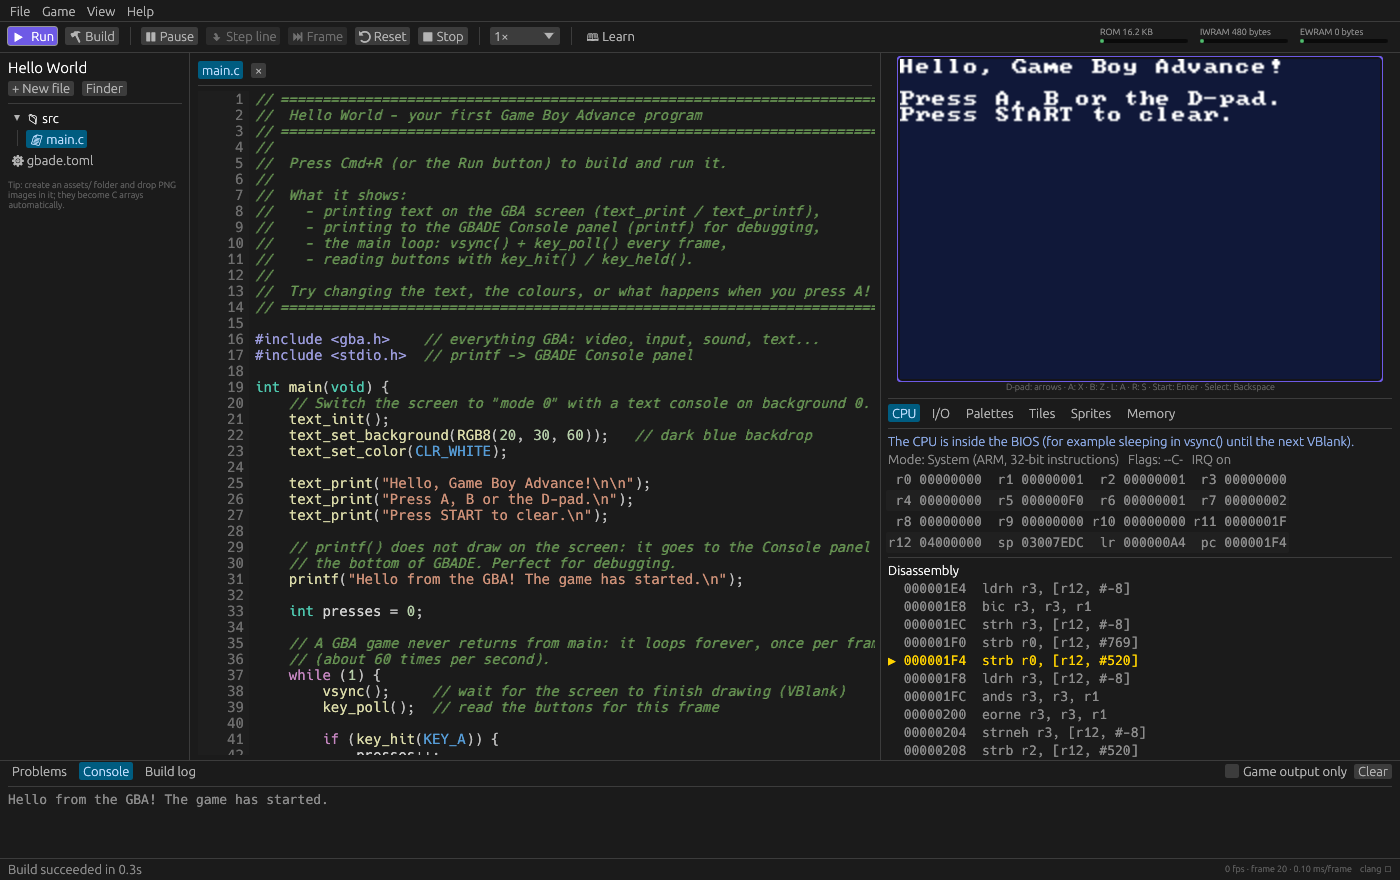
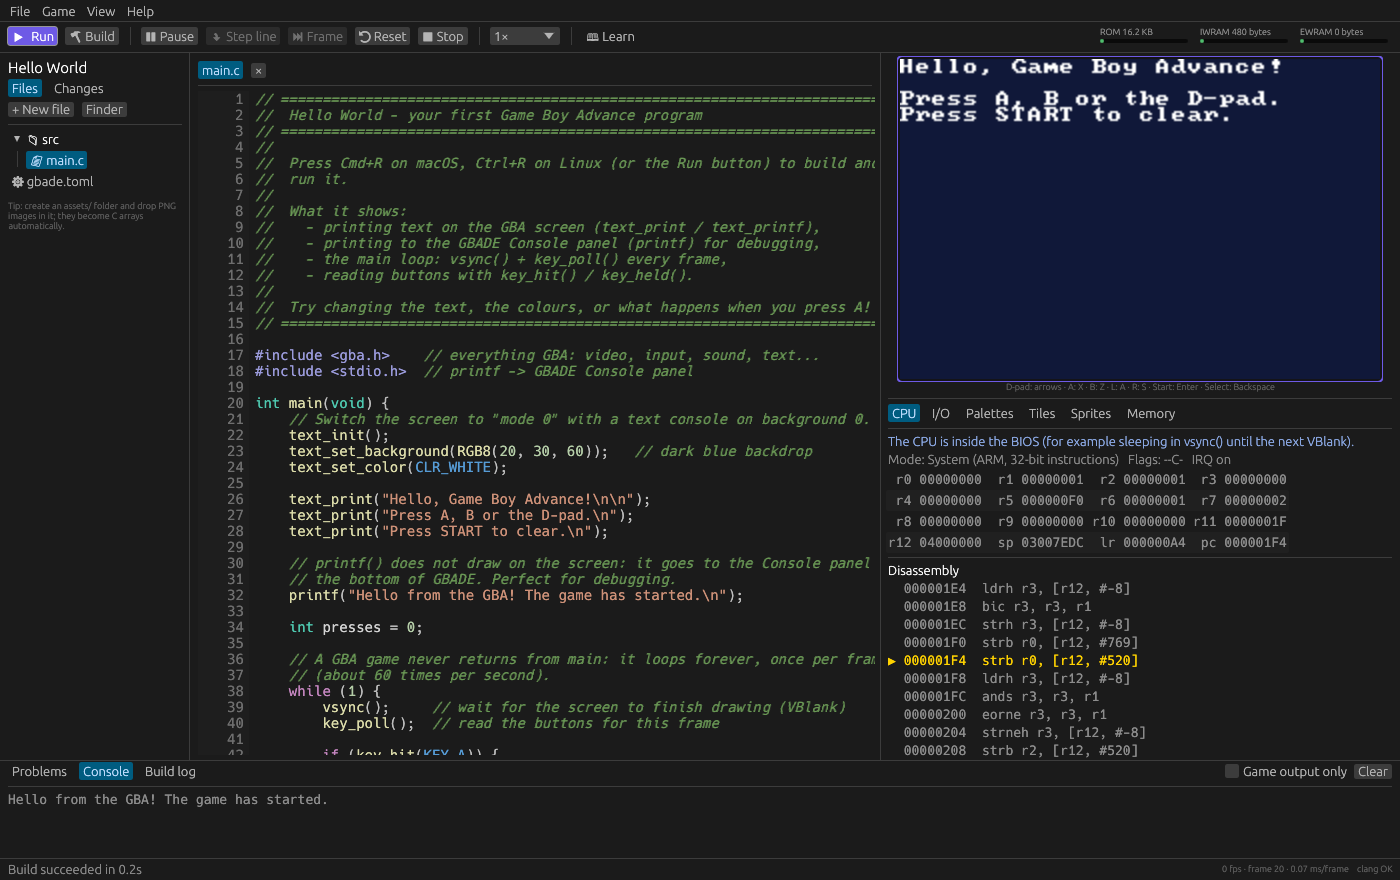
README: bring up to date with 0.2.0
- clangd in the bundled toolchain, gbade check, the two new guides
- install from the releases page first
- repository layout lists gbade-lsp and gbade-git
- tests: real count (106), clangd and libgit2 tests, what the UI and
  smoke tests cover now
- CI example tag v0.2.0; credits for clangd, libgit2 and Zstandard
- fresh screenshot (Files/Changes tabs) and a completion screenshot

Changed region(s): [[0.1843, 0.1841, 0.6143, 0.8591], [0.0, 0.092, 0.1229, 0.2761], [0.86, 0.9818, 1.0, 1.0]]

diff --git a/README.md b/README.md
@@ -3,8 +3,9 @@
 **Make your own Game Boy Advance games, with no setup.** GBADE is a
 development environment where the code editor, the C compiler and a GBA
 emulator live in one app, for macOS and Linux. Write C, press **⌘R**
-(**Ctrl+R** on Linux), and your game runs next to your code, with breakpoints, a hardware inspector and error messages
-written for beginners.
+(**Ctrl+R** on Linux), and your game runs next to your code, with
+breakpoints, a hardware inspector, help while you type, built-in version
+control, and error messages written for beginners.
 
 ![GBADE running the Hello World example](.github/screenshot.png)
 
@@ -16,8 +17,8 @@ Getting started with GBA homebrew usually means installing a cross-compiler,
 a toolchain manager, makefiles, an emulator and a debugger, then wiring them
 together. GBADE ships all of it inside one app:
 
-- **No toolchain to install.** LLVM clang and lld are bundled and preconfigured
-  for the GBA's ARM7TDMI processor. Projects have no makefile: every `.c` file in
+- **No toolchain to install.** LLVM clang, lld and clangd are bundled and
+  preconfigured for the GBA's ARM7TDMI processor. Projects have no makefile: every `.c` file in
   `src/` is compiled.
 - **An emulator built in.** The accurate [mGBA](https://mgba.io) core runs your
   ROM next to the editor. `printf` goes to the IDE's Console.
@@ -37,12 +38,16 @@ together. GBADE ships all of it inside one app:
 - **Learn inside the app.** Thirteen guides explain the GBA from your first pixel
   to sprites, sound, saving and debugging, plus five commented example games.
 
+![Completion suggesting SDK functions while typing](.github/screenshot-completion.png)
+
 ## Install
 
-Each push to `main` builds both packages in CI. Download them from the
-latest [CI run](https://github.com/309nahe/gbade/actions/workflows/ci.yml)
-(artifacts `GBADE-macos-dmg` and `gbade-linux-x86_64`) or from a
-[release](https://github.com/309nahe/gbade/releases).
+Download the latest version from the
+[releases page](https://github.com/309nahe/gbade/releases/latest):
+`GBADE-<version>.dmg` for macOS, `gbade-<version>-linux-x86_64` for Linux.
+Every push to `main` also builds both packages in CI (artifacts
+`GBADE-macos-dmg` and `gbade-linux-x86_64` of the latest
+[CI run](https://github.com/309nahe/gbade/actions/workflows/ci.yml)).
 
 ### macOS (Apple silicon, macOS 12 or newer)
 
@@ -136,6 +141,7 @@ The app is also a command-line tool. On Linux the downloaded file *is*
 alias gbade=/Applications/GBADE.app/Contents/MacOS/gbade   # macOS only
 gbade new my-game --template sprites
 gbade build my-game
+gbade check my-game          # errors and warnings from clangd, without building
 gbade run my-game --frames 300 --press a@60 --screenshot shot.png
 ```
 
@@ -144,7 +150,9 @@ See [docs/cli.md](docs/cli.md).
 ## Documentation
 
 - Guides, in reading order: [docs/guide/](docs/guide/), starting with
-  [Getting Started](docs/guide/01-getting-started.md).
+  [Getting Started](docs/guide/01-getting-started.md). New in 0.2:
+  [Code Assistance](docs/guide/12-code-assistance.md) and
+  [Saving Your Work with Git](docs/guide/13-version-control.md).
 - [Platforms and packaging](docs/platforms.md): the DMG, the single Linux
   file, and how the bundled compiler is found on each.
 - [SDK API reference](docs/sdk-api.md), [Assets](docs/assets.md),
@@ -161,7 +169,7 @@ pkg-config cmake`).
 ```sh
 git clone --recurse-submodules git@github.com:309nahe/gbade.git
 cd gbade
-cargo xtask fetch-llvm      # downloads LLVM 23.1.5 for this machine, once
+cargo xtask fetch-llvm      # downloads LLVM 23.1.5 (clang, lld, clangd) for this machine, once
 cargo run -p gbade          # build and open the IDE
 cargo xtask dmg             # macOS: target/GBADE-<version>.dmg
 cargo xtask linux           # Linux: target/gbade-<version>-linux-x86_64
@@ -171,9 +179,11 @@ cargo xtask linux           # Linux: target/gbade-<version>-linux-x86_64
 
 | Path | Contents |
 |---|---|
-| `crates/gbade` | the app: egui user interface, editor, debugger, CLI |
-| `crates/gbade-toolchain` | the build system: clang/lld driver, asset converter, ROM builder, debug info |
+| `crates/gbade` | the app: egui user interface, editor, code assistance UI, git panel, debugger, CLI |
+| `crates/gbade-toolchain` | the build system: clang/lld driver, compile flags and `compile_commands.json`, asset converter, ROM builder, debug info, packaged resources |
 | `crates/gbade-emu` | Rust bindings to mGBA (through a small C shim) |
+| `crates/gbade-lsp` | a small Language Server Protocol client driving the bundled clangd |
+| `crates/gbade-git` | local git support on libgit2: status, diffs, commits, history |
 | `sdk/` | the GBA C SDK: `gba.h`, startup code, linker script, small libc |
 | `examples/` | the example projects, also used as templates |
 | `docs/` | guides and reference, shown in the app's Learn panel |
@@ -187,20 +197,27 @@ cargo xtask linux           # Linux: target/gbade-<version>-linux-x86_64
 cargo test --workspace
 ```
 
-Around a hundred tests, at every level:
+106 tests, at every level:
 
 - **Unit tests** for the asset converter, diagnostics parser, ROM header, editor
-  helpers, Markdown renderer and more.
+  helpers, completion filtering, Markdown renderer, the single-file packaging
+  and more.
 - **End-to-end tests** that compile real C programs with the bundled compiler
   and run them in the emulator: 64-bit maths, software floats, `malloc`, save
   RAM persistence, breakpoints on source lines, sound timing, crash detection,
   and the error messages beginners see.
+- **Code assistance and git tests** against the real bundled clangd (live
+  errors, completion, hover, go to definition into the SDK) and the real
+  libgit2 (init, status, diffs, commits, history, discard).
 - **UI tests** that drive the real IDE headlessly: create a project, run it,
-  introduce a compile error, hit a breakpoint by pressing a button, step, and
+  introduce a compile error, hit a breakpoint by pressing a button, step, see
+  a live error and the completion popup, jump to a definition, commit, and
   save screenshots to `target/ui-snapshots/`.
 - **Documentation checks**: guide naming, titles and working links.
 
-`cargo xtask smoke` runs the packaged app's command line on every example.
+`cargo xtask smoke` runs the packaged app's command line on every example
+(`new`, `check`, `run`), so the bundled compiler and clangd are tested inside
+the real package.
 
 ### Continuous integration
 
@@ -216,13 +233,14 @@ from the Actions tab, for one platform or both. Two jobs run in parallel:
 
 Each job runs every test, builds its package, smoke-tests it on every
 example, and uploads the package and the screenshots. On a `v*` tag
-(`git tag v0.1.0 && git push origin v0.1.0`), a last job attaches both
+(`git tag v0.2.0 && git push origin v0.2.0`), a last job attaches both
 packages to a GitHub release for that tag.
 
 ## Credits
 
-GBADE builds on mGBA (MPL-2.0), LLVM clang/lld and compiler-rt (Apache-2.0
-with LLVM exception), printf by Marco Paland (MIT), font8x8 by Daniel Hepper
+GBADE builds on mGBA (MPL-2.0), LLVM clang, lld, clangd and compiler-rt
+(Apache-2.0 with LLVM exception), libgit2 (GPLv2 with linking exception),
+Zstandard (BSD), printf by Marco Paland (MIT), font8x8 by Daniel Hepper
 (public domain), the agb project's gbafix (MPL-2.0) and egui. The Tonc tutorial
 and GBATEK taught us the hardware. Full list and license texts:
 [docs/CREDITS.md](docs/CREDITS.md) and [licenses/](licenses/).
